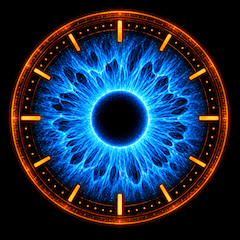
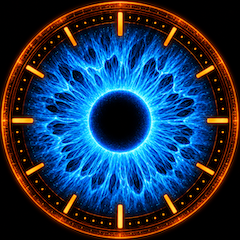
Rotate clock and pc eye test to match upside down monitors

diff --git a/src/eyes/eyestates.py b/src/eyes/eyestates.py
@@ -133,18 +133,18 @@ class ClockMode(Animation):
         for h in range(12):
             s = sin(pi * h / 6)
             c = cos(pi * h / 6)
-            c1 = (center[0] + l_h * s, center[1] - l_h * c)
-            c2 = (center[0] + w_h * c, center[1] + w_h * s)
-            c3 = (center[0] - w_h * c, center[1] - w_h * s)
+            c1 = (center[0] - l_h * s, center[1] + l_h * c)
+            c2 = (center[0] - w_h * c, center[1] - w_h * s)
+            c3 = (center[0] + w_h * c, center[1] + w_h * s)
             self.hour_hand_coordinates.append([c1, c2, c3])
 
         self.minute_hand_coordinates = []
         for m in range(60):
             s = sin(pi * m / 30)
             c = cos(pi * m / 30)
-            c1 = (center[0] + l_m * s, center[1] - l_m * c)
-            c2 = (center[0] + w_m * c, center[1] + w_m * s)
-            c3 = (center[0] - w_m * c, center[1] - w_m * s)
+            c1 = (center[0] - l_m * s, center[1] + l_m * c)
+            c2 = (center[0] - w_m * c, center[1] - w_m * s)
+            c3 = (center[0] + w_m * c, center[1] + w_m * s)
             self.minute_hand_coordinates.append([c1, c2, c3])
 
         self.outer_circle = [

diff --git a/tests/pc/eyes.py b/tests/pc/eyes.py
@@ -37,8 +37,8 @@ class Eyes:
             self.timer.start()
 
     def set_image(self, image):
-        image[0].show()
-        image[1].show()
+        image[0].rotate(180).show()
+        image[1].rotate(180).show()
 
 
 if __name__ == "__main__":
